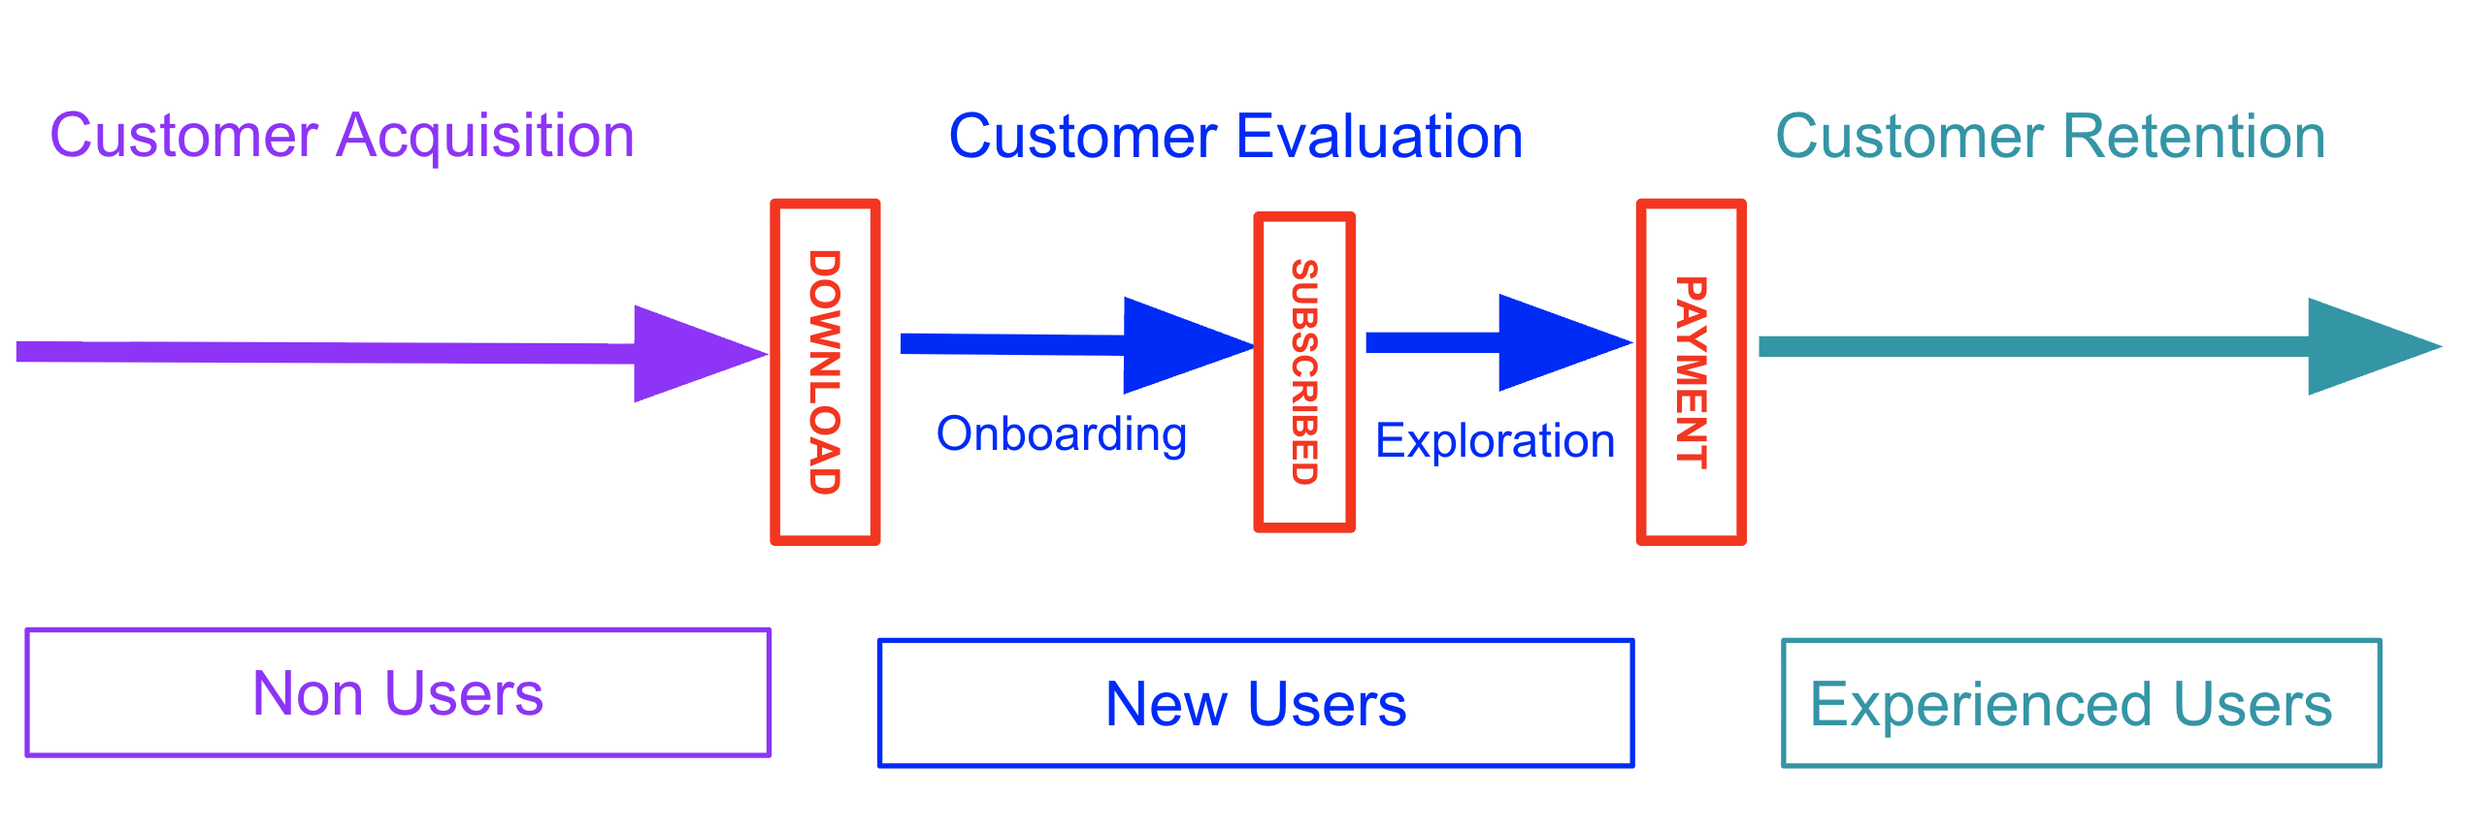
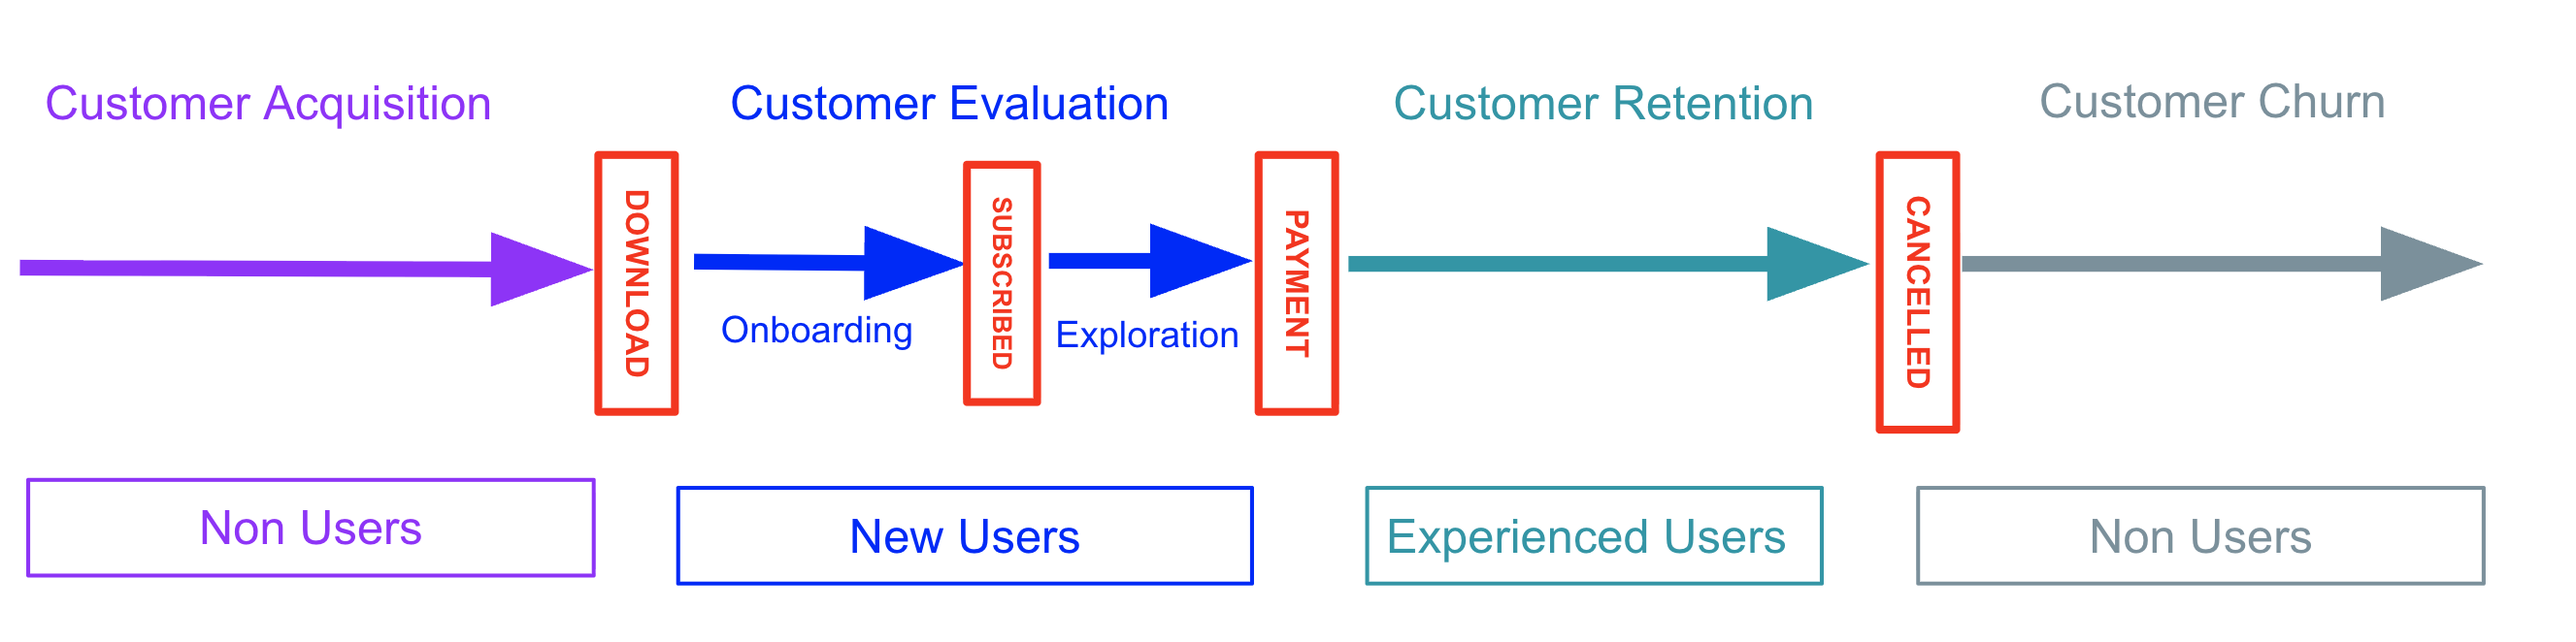
customer churn phase

Changed region(s): [[0.0, 0.1208, 0.9945, 0.6949], [0.0, 0.7251, 0.9634, 0.9366]]

diff --git a/docs/business/strategic-plan-2026/customer-lifecycle.md b/docs/business/strategic-plan-2026/customer-lifecycle.md
@@ -1,18 +1,18 @@
 ---
-hide_table_of_contents: true
+hide_table_of_contents: false
 ---
 
 # GGC Customer Lifecycle
 
 As noted previously, a fundamental strategic challenge for 2026 is to make progress in determining if GGC is a viable business. To do this, it's helpful to define a "GGC customer lifecycle". 
 
-We define the GGC customer lifecycle as three sequential phases: customer acquisition, customer evaluation, and customer retention. The customer evaluation phase has two subphases: customer onboarding and customer exploration:
+We define the GGC customer lifecycle as four sequential phases: customer acquisition, customer evaluation, customer retention, and customer churn. The customer evaluation phase has two subphases: customer onboarding and customer exploration:
 
 <img src="/img/business/customer-lifecycle.png"/>
 
-Customer acquisition ends when the customer downloads the app, and customer evaluation ends when the customer pays for the app for the first time. 
+Customer acquisition ends when the customer downloads the app, customer evaluation ends when the customer pays for the app for the first time, and customer retention ends when the customer cancels their subscription. 
 
-The model also accounts for the evolution of a user from non-user to new user to experienced user.  
+The model also accounts for the evolution of a user from non-user to new user to experienced user (and ultimately, back to a non-user).  
 
 ## Customer acquisition 
 
@@ -40,16 +40,26 @@ Note that the "getting started" emails fit neatly into the customer evaluation p
 
 ## Customer retention
 
-Finally, the "customer retention" phase focuses users who have acquired experience with the app and are currently paying for it. The primary measure of retention is the percentage of users who, having paid for the app at least once, have not cancelled their subscription.  
+The "customer retention" phase focuses users who have acquired experience with the app and are currently paying for it. The primary measure of retention is the percentage of users who, having paid for the app at least once, have not cancelled their subscription.  
 
 There are also secondary measures, which revolve around "satisfaction"----does the app continue to address their needs? What do we need to add or fix to keep them paying us money?
+
+## Customer churn
+
+The final phase of the customer lifecycle is when a customer decides, after having paid at least once, to cancel their subscription. While, ultimately, every customer will eventually cancel their subscription (everyone dies, right?), we want the churn rate to be as low as possible.
+
+Note that we represent customers who cancel their subscription prior to first payment (during the customer evaluation phase) as "attrition", not "churn".
+
+Because we have just started having paying customers in the past month or two, it is too early to know much about the nature of the GeoGardenClub's customer churn phase. 
+
+
 
 ## Discussion
 
 In 2025, the business underperformed in at least two of the three phases:
 * Customer acquisition: Our marketing resulted in 150 downloads for the 2025 season. To be a viable business, we probably need 1000+ downloads per season.
 * Customer evaluation: We experienced a 95% rate of attrition between download and payment (150 downloads resulted in around 10 subscriptions). While some attrition is to be expected, this rate seems much too high.
-* Customer retention: we have only had paying customers for a couple of months, so it's too soon to evaluate retention. 
+* Customer retention and Customer churn: we have only had paying customers for a couple of months, so it's too soon to evaluate retention or churn. 
 
 The next page presents our proposals to fix these problems during 2026.
 

diff --git a/docs/business/strategic-plan-2026/proposals-2026.md b/docs/business/strategic-plan-2026/proposals-2026.md
@@ -4,7 +4,7 @@ hide_table_of_contents: true
 
 # 2026 Activities
 
-This page presents our thinking regarding ways to allocate time and money across the GGC customer lifecycle phases in 2026.
+This page presents our thinking regarding ways to allocate time and money across the four GGC customer lifecycle phases in 2026.
 
 :::warning
 This page currently presents a large list of activities to potentially work on for 2026.  It is intended to stimulate discussion.  We need to eventually decide upon a smaller set of tasks to actually focus on during Fall 2025 as preparation for 2026.
@@ -69,4 +69,6 @@ In general, paying customers have enough experience with the app to derive value
 
 *Add wizard status.* Some mechanism to award active users with some sort of status that would encourage them to let us know if they see ways to improve the app. The goal of this status is to create a feeling of ownership over the app's direction with our top users.  
 
+## Customer Churn Phase
 
+Due to lack of experience with customer churn, we are not proposing any activities regarding this phase of the customer lifecycle for 2026.
